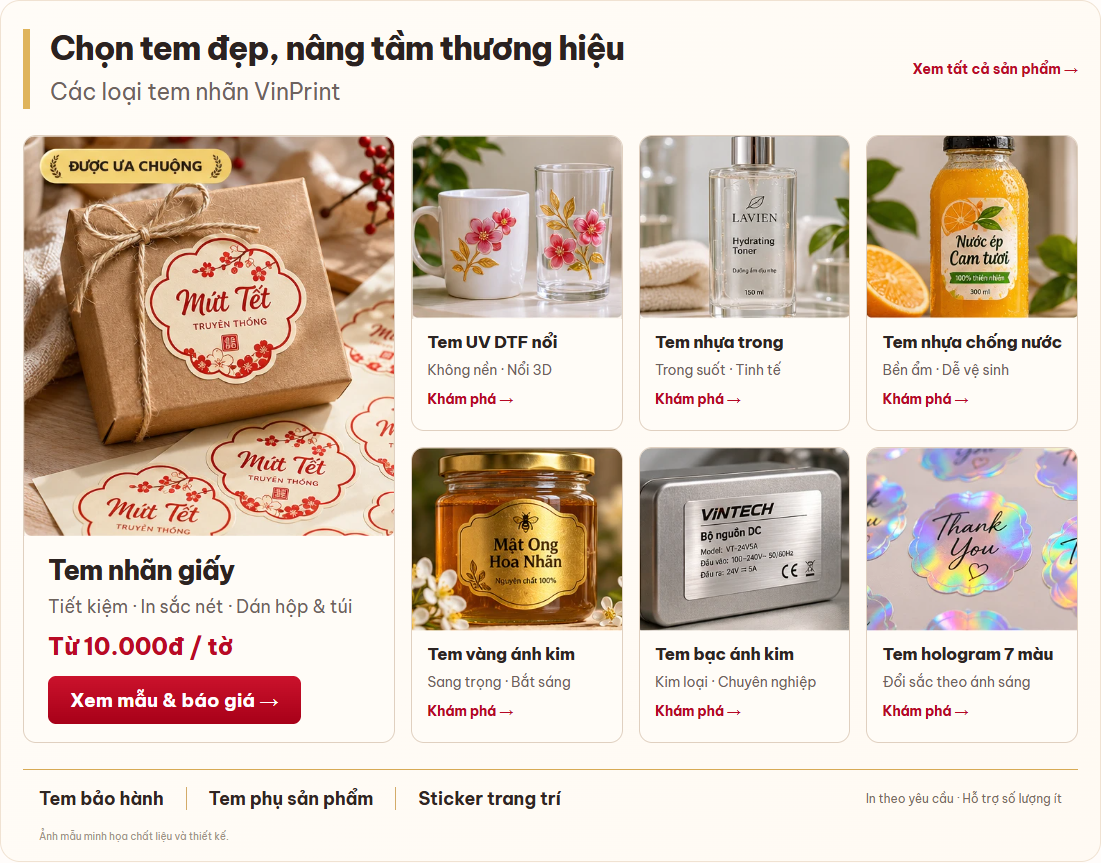
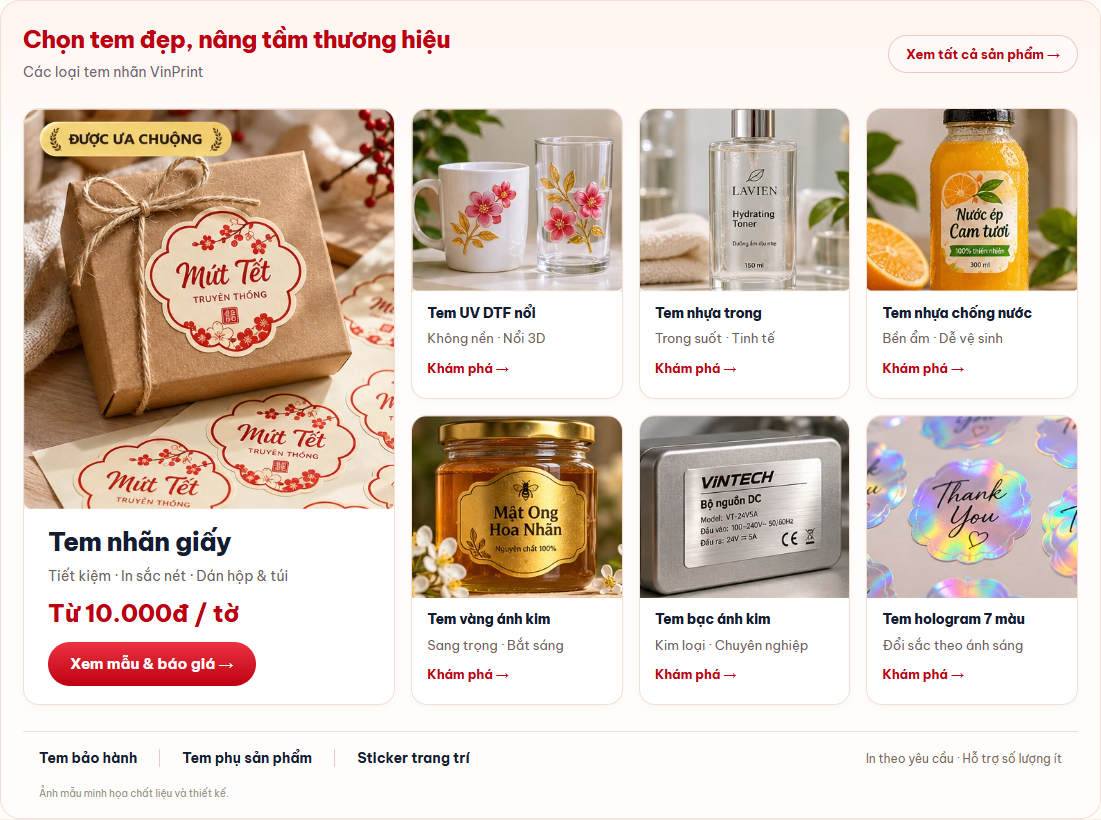
Align approved catalog typography and surfaces with Tet theme

diff --git a/app/components/storefront/material-catalog.css b/app/components/storefront/material-catalog.css
@@ -1,32 +1,32 @@
-.vinprint-storefront .vp-approved-catalog{margin-top:32px;padding:28px 22px 18px;background:linear-gradient(120deg,#fffcf7,#fffaf3);border:1px solid #f0e2d2;border-radius:20px}
+.vinprint-storefront .vp-approved-catalog{margin-top:32px;padding:24px 22px 18px;background:linear-gradient(180deg,#fff4f0 0,#fffdfb 170px);border:1px solid var(--line);border-radius:20px}
 .vinprint-storefront .vp-approved-heading{display:flex;align-items:center;justify-content:space-between;gap:24px;margin-bottom:26px}
-.vinprint-storefront .vp-approved-heading>div{border-left:7px solid #dfb45c;padding-left:20px}
-.vinprint-storefront .vp-approved-heading h2{font-size:clamp(24px,2.4vw,42px);line-height:1.2;font-weight:800;color:#2b2220;letter-spacing:-1.1px;margin:0 0 8px}
-.vinprint-storefront .vp-approved-heading p{font-size:clamp(16px,1.65vw,26px);line-height:1.45;color:#6e635e;margin:0}
-.vinprint-storefront .vp-approved-heading>a{color:#b80c25;font-size:14px;font-weight:700;white-space:nowrap;flex-shrink:0}
+.vinprint-storefront .vp-approved-heading>div{padding-left:0}
+.vinprint-storefront .vp-approved-heading h2{font-size:24px;line-height:1.2;font-weight:800;color:var(--red);letter-spacing:-.6px;margin:0 0 8px}
+.vinprint-storefront .vp-approved-heading p{font-size:14px;line-height:1.45;color:#6c6570;margin:0}
+.vinprint-storefront .vp-approved-heading>a{color:var(--red);font-size:13px;font-weight:700;white-space:nowrap;flex-shrink:0;border:1px solid #f1c8c2;border-radius:24px;padding:10px 17px;background:#fffaf7}
 .vinprint-storefront .vp-approved-grid{display:grid;grid-template-columns:1.76fr repeat(3,minmax(0,1fr));gap:16px;align-items:stretch}
-.vinprint-storefront .vp-catalog-feature,.vinprint-storefront .vp-catalog-small{border:1px solid #e0d0c0;border-radius:13px;overflow:hidden;min-width:0;background:#fffcf7;display:flex;flex-direction:column}
+.vinprint-storefront .vp-catalog-feature,.vinprint-storefront .vp-catalog-small{border:1px solid var(--line);border-radius:16px;overflow:hidden;min-width:0;background:#fff;box-shadow:0 2px 5px #54241708;display:flex;flex-direction:column}
 .vinprint-storefront .vp-catalog-feature{grid-row:span 2}
 .vinprint-storefront .vp-catalog-art{position:relative;display:block;overflow:hidden;aspect-ratio:301/262;background:#f1e7d9}
 .vinprint-storefront .vp-catalog-feature>.vp-catalog-art{aspect-ratio:534/577}
 .vinprint-storefront .vp-catalog-photo{position:absolute;inset:0;display:block;width:100%;height:100%}
 .vinprint-storefront .vp-catalog-small-body{padding:12px 15px 15px;flex:1}
-.vinprint-storefront .vp-catalog-small-body h3{font-size:clamp(14px,1.25vw,22px);line-height:1.35;color:#2c2422;font-weight:800;letter-spacing:-.4px;margin:0 0 6px}
+.vinprint-storefront .vp-catalog-small-body h3{font-size:clamp(14px,1.05vw,18px);line-height:1.35;color:var(--ink);font-weight:800;letter-spacing:-.4px;margin:0 0 6px}
 .vinprint-storefront .vp-catalog-small-body h3 a,.vinprint-storefront .vp-catalog-feature-body h3 a{color:inherit;text-decoration:none}
-.vinprint-storefront .vp-catalog-small-body p{font-size:clamp(11px,1vw,17px);color:#6e625b;line-height:1.5;margin:0 0 10px}
-.vinprint-storefront .vp-catalog-explore{display:inline-block;font-size:clamp(12px,1vw,17px);color:#b50824;font-weight:700}
+.vinprint-storefront .vp-catalog-small-body p{font-size:13px;color:#6e625b;line-height:1.5;margin:0 0 10px}
+.vinprint-storefront .vp-catalog-explore{display:inline-block;font-size:13px;color:var(--red);font-weight:700}
 .vinprint-storefront .vp-catalog-feature-body{padding:17px 24px 18px;display:flex;flex-direction:column;align-items:flex-start;justify-content:center;flex:1}
-.vinprint-storefront .vp-catalog-feature-body h3{font-size:clamp(22px,2vw,35px);line-height:1.25;letter-spacing:-1px;font-weight:800;color:#2c2320;margin:0 0 7px}
-.vinprint-storefront .vp-catalog-feature-body p{font-size:clamp(12px,1.3vw,21px);line-height:1.5;color:#6d625b;margin:0 0 10px}
-.vinprint-storefront .vp-catalog-feature-body strong{display:block;font-size:clamp(19px,1.7vw,29px);font-weight:800;line-height:1.4;color:#b90a24;margin-bottom:12px}
-.vinprint-storefront .vp-catalog-feature-body>button{min-height:44px;border:0;border-radius:8px;background:linear-gradient(#cb122c,#a70018);color:white;padding:10px 22px;font-size:clamp(13px,1.4vw,22px);line-height:1.5;font-weight:700}
-.vinprint-storefront .vp-catalog-secondary{display:flex;align-items:center;justify-content:space-between;flex-wrap:wrap;gap:18px;margin-top:26px;padding:17px 16px 5px;border-top:1px solid #d7aa55}
+.vinprint-storefront .vp-catalog-feature-body h3{font-size:26px;line-height:1.25;letter-spacing:-.5px;font-weight:800;color:var(--ink);margin:0 0 7px}
+.vinprint-storefront .vp-catalog-feature-body p{font-size:14px;line-height:1.5;color:#6d625b;margin:0 0 10px}
+.vinprint-storefront .vp-catalog-feature-body strong{display:block;font-size:24px;font-weight:800;line-height:1.4;color:var(--red);margin-bottom:12px}
+.vinprint-storefront .vp-catalog-feature-body>button{min-height:44px;border:0;border-radius:24px;background:linear-gradient(#ec3342,#bd0011);color:white;padding:10px 22px;font-size:15px;line-height:1.5;font-weight:700}
+.vinprint-storefront .vp-catalog-secondary{display:flex;align-items:center;justify-content:space-between;flex-wrap:wrap;gap:18px;margin-top:26px;padding:17px 16px 5px;border-top:1px solid var(--line)}
 .vinprint-storefront .vp-catalog-secondary nav{display:flex;align-items:center;flex-wrap:wrap;gap:10px 0}
-.vinprint-storefront .vp-catalog-secondary nav>a{font-size:clamp(13px,1.3vw,21px);font-weight:700;color:#302522;padding:0 22px;border-right:1px solid #d3ab69}
+.vinprint-storefront .vp-catalog-secondary nav>a{font-size:14px;font-weight:700;color:var(--ink);padding:0 22px;border-right:1px solid #f1c8c2}
 .vinprint-storefront .vp-catalog-secondary nav>a:first-child{padding-left:0}.vinprint-storefront .vp-catalog-secondary nav>a:last-child{border:0}
 .vinprint-storefront .vp-catalog-secondary>span{font-size:12px;color:#786c62}
 .vinprint-storefront .vp-catalog-disclaimer{font-size:10px;color:#a09184;margin:15px 16px 0}
 .vinprint-storefront .vp-approved-catalog a:hover{color:#b50924}.vinprint-storefront .vp-catalog-art:hover .vp-catalog-photo{filter:brightness(1.025)}
 .vinprint-storefront .vp-approved-catalog :where(a,button):focus-visible{outline:2px solid #bd112b;outline-offset:3px}
 @media(max-width:1100px){.vinprint-storefront .vp-approved-grid{grid-template-columns:1.5fr repeat(2,minmax(0,1fr))}.vinprint-storefront .vp-catalog-feature{grid-row:span 3}.vinprint-storefront .vp-catalog-feature>.vp-catalog-art{flex:1;aspect-ratio:auto;min-height:300px}.vinprint-storefront .vp-approved-heading{align-items:flex-start;flex-direction:column;gap:14px}.vinprint-storefront .vp-catalog-feature-body{flex:0;padding:20px}.vinprint-storefront .vp-catalog-small-body h3{font-size:15px}}
-@media(max-width:700px){.vinprint-storefront .vp-approved-catalog{padding:20px 14px 16px}.vinprint-storefront .vp-approved-heading>div{padding-left:14px;border-left-width:5px}.vinprint-storefront .vp-approved-heading h2{font-size:27px;letter-spacing:-.7px}.vinprint-storefront .vp-approved-heading p{font-size:16px}.vinprint-storefront .vp-approved-heading>a{font-size:12px}.vinprint-storefront .vp-approved-grid{grid-template-columns:repeat(2,minmax(0,1fr));gap:12px}.vinprint-storefront .vp-catalog-feature{grid-column:1/-1;grid-row:auto}.vinprint-storefront .vp-catalog-feature>.vp-catalog-art{aspect-ratio:534/577;min-height:0;flex:none}.vinprint-storefront .vp-catalog-feature-body{padding:17px 20px}.vinprint-storefront .vp-catalog-feature-body h3{font-size:26px}.vinprint-storefront .vp-catalog-feature-body p{font-size:14px}.vinprint-storefront .vp-catalog-feature-body strong{font-size:24px}.vinprint-storefront .vp-catalog-feature-body>button{font-size:15px}.vinprint-storefront .vp-catalog-small-body{padding:11px}.vinprint-storefront .vp-catalog-small-body h3{font-size:13px;letter-spacing:-.2px}.vinprint-storefront .vp-catalog-small-body p{font-size:10px}.vinprint-storefront .vp-catalog-explore{font-size:12px}.vinprint-storefront .vp-catalog-secondary{padding:16px 0 0;gap:13px;margin-top:20px}.vinprint-storefront .vp-catalog-secondary nav>a{font-size:12px;padding:0 10px}.vinprint-storefront .vp-catalog-secondary>span{font-size:10px}.vinprint-storefront .vp-catalog-disclaimer{margin-left:0}}
+@media(max-width:700px){.vinprint-storefront .vp-approved-catalog{padding:20px 14px 16px}.vinprint-storefront .vp-approved-heading>div{padding-left:0}.vinprint-storefront .vp-approved-heading h2{font-size:20px;letter-spacing:-.5px}.vinprint-storefront .vp-approved-heading p{font-size:12px}.vinprint-storefront .vp-approved-heading>a{font-size:12px}.vinprint-storefront .vp-approved-grid{grid-template-columns:repeat(2,minmax(0,1fr));gap:12px}.vinprint-storefront .vp-catalog-feature{grid-column:1/-1;grid-row:auto}.vinprint-storefront .vp-catalog-feature>.vp-catalog-art{aspect-ratio:534/577;min-height:0;flex:none}.vinprint-storefront .vp-catalog-feature-body{padding:17px 20px}.vinprint-storefront .vp-catalog-feature-body h3{font-size:22px}.vinprint-storefront .vp-catalog-feature-body p{font-size:14px}.vinprint-storefront .vp-catalog-feature-body strong{font-size:24px}.vinprint-storefront .vp-catalog-feature-body>button{font-size:15px}.vinprint-storefront .vp-catalog-small-body{padding:11px}.vinprint-storefront .vp-catalog-small-body h3{font-size:13px;letter-spacing:-.2px}.vinprint-storefront .vp-catalog-small-body p{font-size:10px}.vinprint-storefront .vp-catalog-explore{font-size:12px}.vinprint-storefront .vp-catalog-secondary{padding:16px 0 0;gap:13px;margin-top:20px}.vinprint-storefront .vp-catalog-secondary nav>a{font-size:12px;padding:0 10px}.vinprint-storefront .vp-catalog-secondary>span{font-size:10px}.vinprint-storefront .vp-catalog-disclaimer{margin-left:0}}

diff --git a/docs/lessons/2026-11-27-home-tools-material-cards.md b/docs/lessons/2026-11-27-home-tools-material-cards.md
@@ -22,3 +22,9 @@ Chín ô có cảnh SVG/CSS riêng, không chỉ lắc/phóng icon. Không dùng
 - Khi chủ yêu cầu xem ảnh trước, không áp dụng thêm phương án local trước khi chủ chọn rõ. Chủ đã chọn MẪU 1, không phải ảnh cuối trong nhóm.
 - Dựng đúng một thẻ lớn + sáu ảnh nhỏ + ba liên kết. Xóa khối hot khỏi homepage, giữ dữ liệu admin.
 - CSS header toàn trang áp position fixed lên header của component ở mobile. Đổi wrapper thành div có class riêng; verify-approved-catalog.cjs chặn bằng assert đáy tiêu đề nằm trước đầu ảnh trên cả ba viewport phụ. Ảnh chụp390px xác minh thực tế.
+
+
+## Đồng bộ theme — Issue151
+- Chủ phản hồi đúng bố cục nhưng khối tem vẫn khác theme: tiêu đề đen42px, vạch vàng và viền nâu được sao chép độc lập từ ảnh demo. Mẫu duyệt xác định bố cục/ảnh; phần chữ, nút và viền cần dùng hệ màu và thang chữ trang hiện có.
+- Sửa sang token --red/--ink/--line, tiêu đề24px (mobile20px), nền hồng kem, thẻ trắng và nút đỏ bo tròn; giữ ảnh và bố cục mẫu1.
+- verify-approved-catalog.cjs kiểm màu tiêu đề bằng đỏ theme, cỡ tối đa24px, bỏ vạch trái, cùng kiểm4viewport/10URL/báo giá. Ảnh desktop/mobile được xem trực tiếp trước khi báo cáo.

diff --git a/docs/TET-STOREFRONT-INTEGRATION.md b/docs/TET-STOREFRONT-INTEGRATION.md
@@ -65,3 +65,5 @@ Mỗi ô công cụ có cảnh SVG/CSS động104×76px (mobile88×66), mô tả
 
 ## Mẫu 1 đã chọn — Issue 150
 Chủ xác nhận MẪU 1 sau khi xem ảnh demo. MaterialCatalog thay MaterialExplorer: một thẻ giấy lớn, sáu thẻ ảnh chất liệu và ba liên kết phụ; tổng 10 loại tem giữ giá/URL từ products. Ảnh catalog-approved-1.webp giữ kích thước nguồn1536×1024, bảy vùng ảnh SVG giữ tỷ lệ, chữ/nút là HTML. Bỏ hoàn toàn khối Các sản phẩm đang hot và request hot-products trên homepage; bộ sưu tập quản trị giữ nguyên. verify-approved-catalog.cjs kiểm 4 viewport, tiêu đề không đè ảnh, 10 URL HTTP200, báo giá giấy, bảy crop riêng và dữ liệu quản trị không đổi.
+
+Issue151: Đồng bộ mẫu1 với theme trang: tiêu đề đỏ24px/20px, token --red/--ink/--line, nền hồng kem nhẹ, thẻ trắng và nút bo tròn. Không thay ảnh, thứ tự hay giá.
